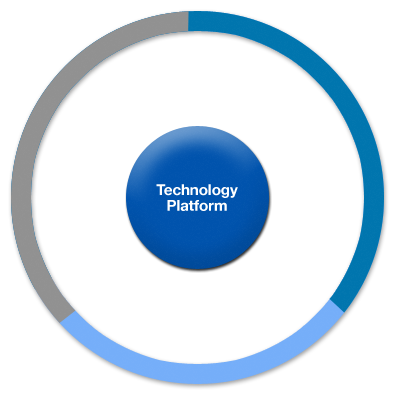
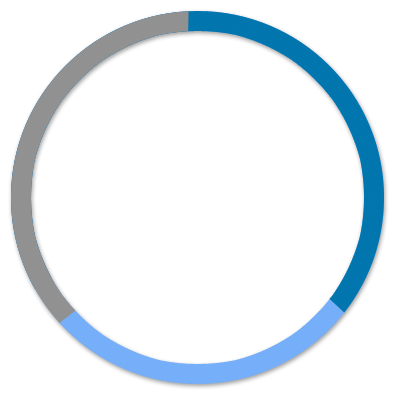
new buttons part 1

Changed region(s): [[0.3, 0.3, 0.69, 0.69]]

diff --git a/Resources/views/content/technology.js b/Resources/views/content/technology.js
@@ -40,11 +40,19 @@ Views.content.technology = function(win) {
 	
 	nav_view.add(nav_circle);
 	
+	var nav_center = Ti.UI.createView({
+		backgroundImage:"images/technology/large_nav/tech_nav_center.png",
+		width:150,
+		height:137
+	});
+	
+	nav_view.add(nav_center);
+	
 	var nav_rf = Ti.UI.createButton({
 		backgroundImage:"images/technology/large_nav/tech_nav_rf.png",
 		backgroundSelectedImage:"images/technology/large_nav/tech_nav_rf_pressed.png",
-		height:130,
-		width:130,
+		height:150,
+		width:140,
 		top:0,
 		id: 'rf_energy'
 	});
@@ -52,8 +60,8 @@ Views.content.technology = function(win) {
 	var nav_access = Ti.UI.createButton({
 		backgroundImage:"images/technology/large_nav/tech_nav_access.png",
 		backgroundSelectedImage:"images/technology/large_nav/tech_nav_access_pressed.png",
-		height:130,
-		width:130,
+		height:150,
+		width:140,
 		bottom:20,
 		left:10,
 		id: 'access_and_navigation'
@@ -62,8 +70,8 @@ Views.content.technology = function(win) {
 	var nav_bone = Ti.UI.createButton({
 		backgroundImage:"images/technology/large_nav/tech_nav_bone.png",
 		backgroundSelectedImage:"images/technology/large_nav/tech_nav_bone_pressed.png",
-		height:130,
-		width:130,
+		height:150,
+		width:140,
 		bottom:20,
 		right:10,
 		id: "bone_cement"

diff --git a/Resources/views/content/tech_nav.js b/Resources/views/content/tech_nav.js
@@ -4,8 +4,8 @@ Views.content.tech_nav = function(view) {
 	}
 
 	var nav = Ti.UI.createView({
-		height:220,
-		width:220,
+		height:240,
+		width:240,
 		top:30,
 		left:30
 	});
@@ -20,7 +20,7 @@ Views.content.tech_nav = function(view) {
 		backgroundImage:"images/technology/small_tech_nav_rf_inactive.png",
 		backgroundSelectedImage:"images/technology/small_tech_nav_rf_active.png",
 		width:90,
-		height:90,
+		height:100,
 		top:0,
 		id: 'rf_energy'
 	});
@@ -32,7 +32,7 @@ Views.content.tech_nav = function(view) {
 		backgroundSelectedImage:"images/technology/small_tech_nav_access_active.png",
 		left:0,
 		width:90,
-		height:90,
+		height:100,
 		bottom:10,
 		id: 'access_and_navigation'
 	});
@@ -44,7 +44,7 @@ Views.content.tech_nav = function(view) {
 		backgroundSelectedImage:"images/technology/small_tech_nav_bone_active.png",
 		right:0,
 		width:90,
-		height:90,
+		height:100,
 		bottom:10,
 		id: "bone_cement"
 	});
